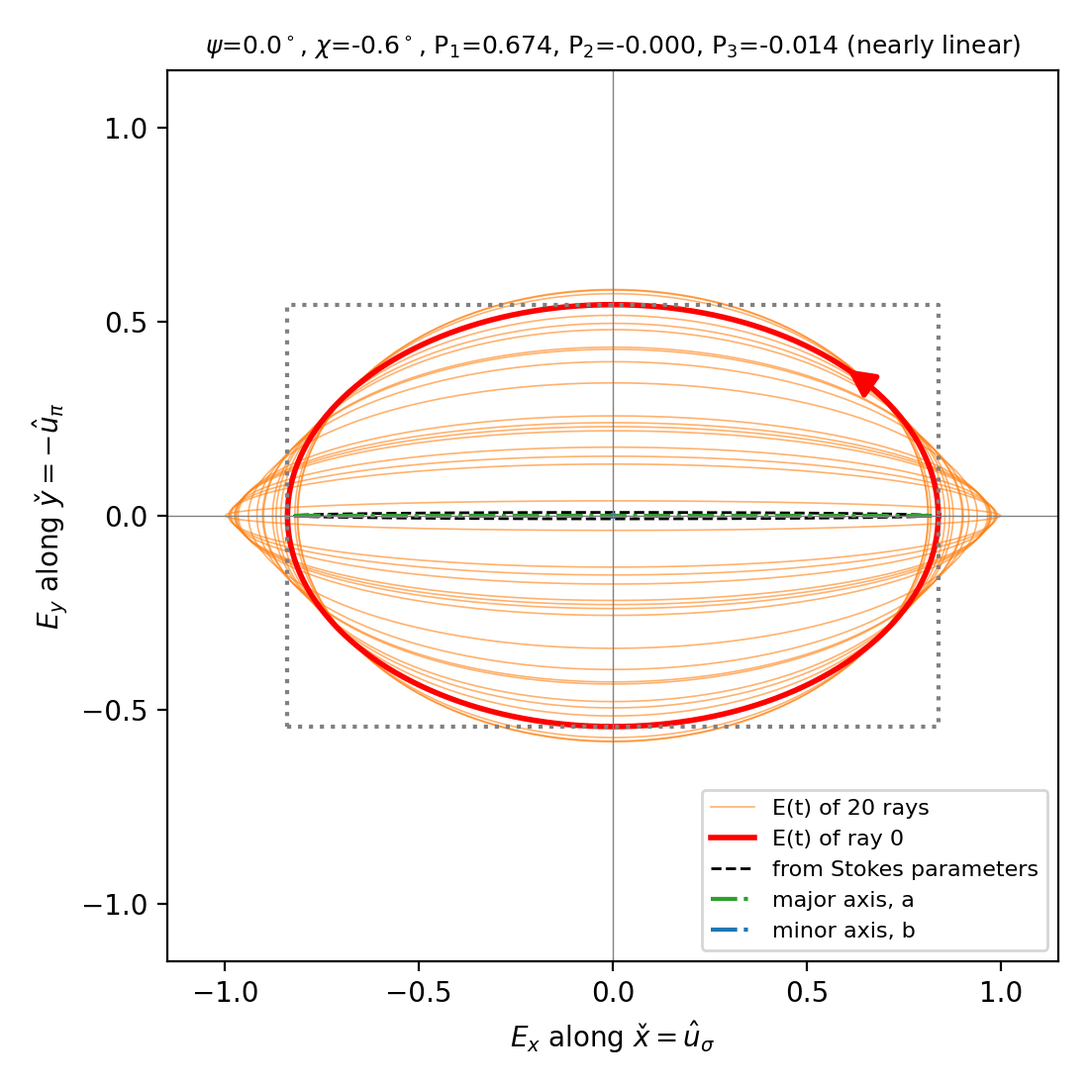
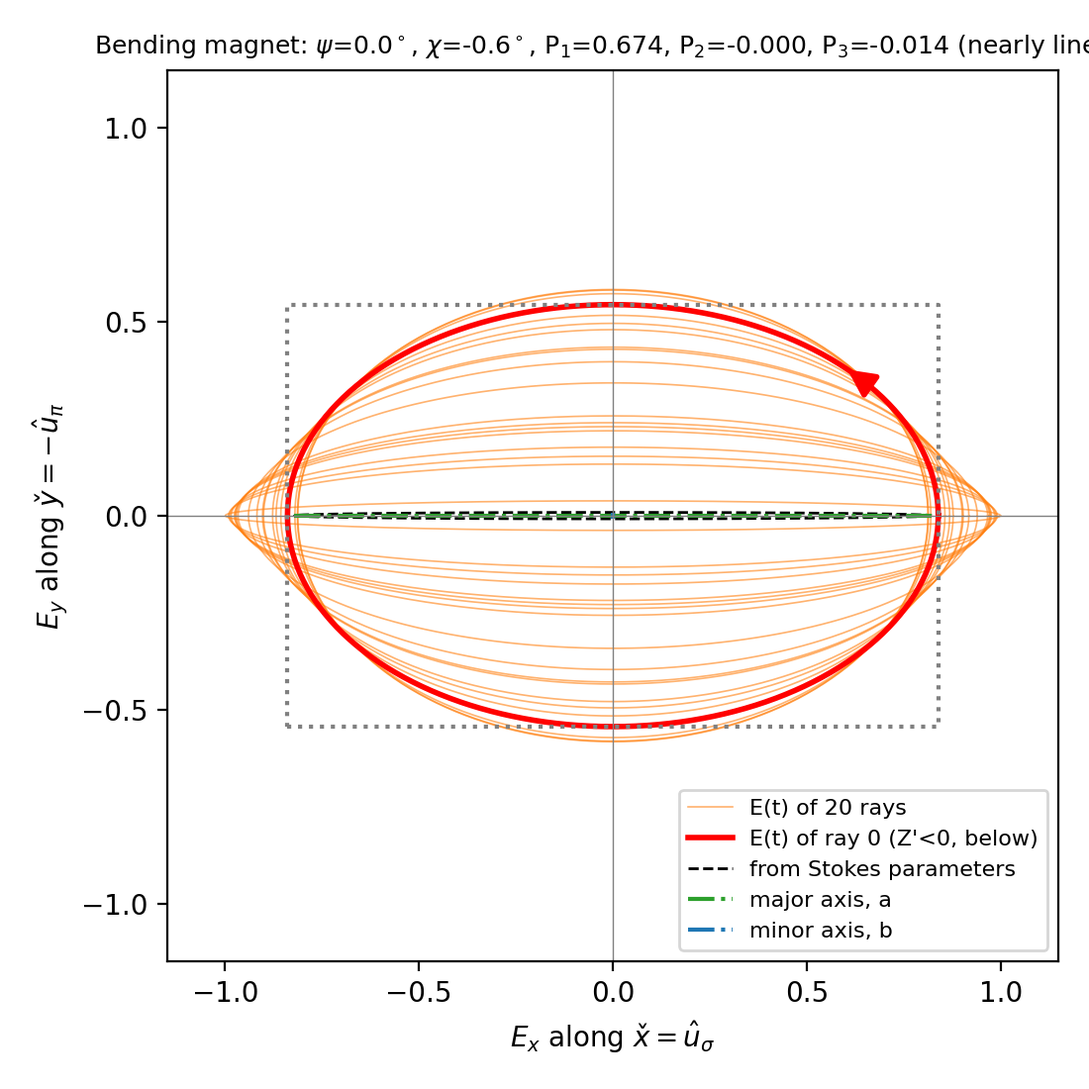
main2: bending magnet Stokes parameters vs Z' (handedness above/below the orbit plane, comparison with the analytical formulas, Schafers 2008 and Lienard-Wiechert), Fig. 3 label and caption, ESRF1 BM from arXiv:2406.16446; scripts: wiggler and undulator examples, shadow4_insertion_devices_stokes.py;

Changed region(s): [[0.68, 0.7109, 0.9582, 0.8655], [0.0927, 0.0309, 1.0, 0.0618], [0.6182, 0.7109, 0.6491, 0.8655]]

diff --git a/scripts/shadow4_insertion_devices_stokes.py b/scripts/shadow4_insertion_devices_stokes.py
@@ -1,0 +1,191 @@
+#
+# Stokes parameters of the rays of synchrotron sources versus the vertical direction Z' (column 6): a bending magnet,
+# a wiggler and an undulator, all without electron beam emittance, so that Z' is the vertical emission angle psi.
+#
+# Bending magnet: ESRF-1 (6.04 GeV, B = -0.8 T, critical energy 19.4 keV) at 8 keV. The SHADOW4 rays are compared with
+# the synchrotron radiation formulas (e.g., Jackson, Classical Electrodynamics, Sec. 14.6; Kim, X-ray Data Booklet,
+# Sec. 2.1):
+#     E_sigma ~ (1 + X^2) K_2/3(xi),    |E_pi| ~ X (1 + X^2)^1/2 K_1/3(xi),    X = gamma psi,
+#     xi = (E / 2 E_c) (1 + X^2)^3/2,  phase difference +/- 90 deg with the sign of psi.
+# The magnetic field B < 0 makes the electrons turn clockwise seen from above (toward +x, see
+# S4BendingMagnetLightSource): the radiation above the orbit plane (psi > 0) is right-handed (S3 < 0) and below it is
+# left-handed (S3 > 0), as in F. Schafers, in Modern Developments in X-Ray and Neutron Optics (Springer, 2008), p. 30.
+# This is verified with the Lienard-Wiechert field of an electron on a circular orbit (handedness_lienard_wiechert).
+#
+# Wiggler: 6.084 GeV, K = 20.49, 6 periods of 15 cm, at 50 keV. At each pole the radiation is like that of a bending
+# magnet: the handedness above (below) the orbit plane depends on the sense of rotation of the electron at the pole
+# (sign of the trajectory curvature d2x/dy2). The rays are separated by the sign of the curvature at their emission
+# point; the two families have opposite handedness, and S3 cancels for the whole beam.
+#
+# Undulator: 6.084 GeV, K = 1.656, 111 periods of 18 mm, at the resonance 8.234 keV, within +/-18 urad. The amplitudes
+# are from the undulator emission, with a phase difference of +/- 90 deg with the sign of psi (as for the bending magnet).
+#
+# The theoretical values are plotted only for the bending magnet.
+#
+# Usage:
+#   PYTHONPATH=~/OASYS2.0/shadow4 ~/venv/oasys2/bin/python shadow4_insertion_devices_stokes.py
+#   (the figures are written to ../figures/stokes_<source>.png, <source> = bending_magnet, wiggler, undulator)
+#
+import os
+import numpy
+import scipy.special
+
+SHOW_PLOTS = 1
+
+PHOTON_ENERGY = 8000.0
+ELECTRON_ENERGY = 6.04       # GeV
+CRITICAL_ENERGY = 0.665 * ELECTRON_ENERGY ** 2 * 0.8 * 1e3   # eV
+
+
+def stokes_analytical(psi, photon_energy=PHOTON_ENERGY, electron_energy=ELECTRON_ENERGY,
+                      critical_energy=CRITICAL_ENERGY):
+    """Normalized Stokes parameters (P1, P2, P3) and angular distribution (arbitrary units) of the bending magnet
+    radiation versus the vertical angle psi (rad), for electrons turning clockwise seen from above."""
+    gamma = electron_energy / 0.51099895e-3
+    X = gamma * psi
+    xi = 0.5 * photon_energy / critical_energy * (1 + X ** 2) ** 1.5
+    a_s = (1 + X ** 2) * scipy.special.kv(2 / 3, xi)
+    a_p = numpy.abs(X) * numpy.sqrt(1 + X ** 2) * scipy.special.kv(1 / 3, xi)
+    S0 = a_s ** 2 + a_p ** 2
+    return (a_s ** 2 - a_p ** 2) / S0, 0 * psi, -numpy.sign(psi) * 2 * a_s * a_p / S0, S0
+
+
+def handedness_lienard_wiechert(psi_gamma=0.5, gamma=30.0, clockwise=True):
+    """Independent check of the handedness: far field of an electron on a circular orbit in the (x, y) plane (Lienard-
+    Wiechert, E ~ n x ((n - beta) x beta_dot) / (1 - n.beta)^3, observer time t = t' - n.r), moving along +y at
+    t' = 0 and turning toward +x (clockwise seen from above) or -x, for an observer at the vertical angle
+    psi = psi_gamma / gamma. Returns the sense of rotation of the field in time, in the standard frame
+    (u_sigma, -u_pi, v), for an observer looking toward the source: +1 counter-clockwise (LCP), -1 clockwise (RCP).
+    Units c = R = 1 (the handedness does not depend on gamma)."""
+    beta = numpy.sqrt(1 - 1 / gamma ** 2)
+    w = beta
+    sx = 1 if clockwise else -1
+    tp = numpy.linspace(-3 / gamma, 3 / gamma, 200001) / w
+    r = numpy.stack([sx * (1 - numpy.cos(w * tp)), numpy.sin(w * tp), 0 * tp], -1)
+    b = beta * numpy.stack([sx * numpy.sin(w * tp), numpy.cos(w * tp), 0 * tp], -1)
+    bd = beta * w * numpy.stack([sx * numpy.cos(w * tp), -numpy.sin(w * tp), 0 * tp], -1)
+    psi = psi_gamma / gamma
+    n = numpy.array([0, numpy.cos(psi), numpy.sin(psi)])
+    E = numpy.cross(n, numpy.cross(n - b, bd)) / ((1 - b @ n) ** 3)[:, None]
+    t = tp - r @ n
+    u_s = numpy.array([1.0, 0, 0])
+    u_p = numpy.cross(u_s, n)                       # SHADOW convention u_pi = u_sigma x v
+    Ex, Ey = E @ u_s, -(E @ u_p)                    # standard frame (u_sigma, -u_pi, v)
+    L = numpy.sum(Ex[:-1] * numpy.diff(Ey) - Ey[:-1] * numpy.diff(Ex))
+    return int(numpy.sign(L))
+
+
+def plot_stokes(zp, S, file_png=None, title="", analytical=None, groups=None, annotate_handedness=False):
+    """Plots (a) the Stokes parameters S (shape (4, nrays)) summed in bins of zp, and (b) the normalized Stokes
+    parameters of the rays, versus zp (rad). analytical: function of psi returning (P1, P2, P3, S0), plotted as lines.
+    groups: list of (mask, label, marker) to plot S3 and P3 separately for families of rays (e.g., wiggler poles)."""
+    import matplotlib
+    if not SHOW_PLOTS: matplotlib.use("Agg")
+    import matplotlib.pyplot as plt
+
+    P = S[1:] / S[0]
+    fig, (ax1, ax2) = plt.subplots(2, 1, figsize=(5.5, 7.0), sharex=True)
+
+    # (a) Stokes parameters summed in bins of Z' (angular distributions)
+    bins = numpy.linspace(zp.min(), zp.max(), 81)
+    centers = 0.5 * (bins[1:] + bins[:-1])
+    hS = [numpy.histogram(zp, bins=bins, weights=S[k])[0] for k in range(4)]
+    norm = hS[0].max()
+    for k, (color, label) in enumerate(zip(['k', 'C0', 'C2', 'C3'], ['$S_0$', '$S_1$', '$S_2$', '$S_3$'])):
+        ax1.plot(1e6 * centers, hS[k] / norm, 'o', ms=5 if k == 0 else 3, color=color, mfc='none' if k == 0 else color,
+                 label=label, zorder=3 if k == 0 else 2)
+    if groups is not None:
+        for mask, label, marker, gcolor in groups:
+            h3 = numpy.histogram(zp[mask], bins=bins, weights=S[3][mask])[0]
+            ax1.plot(1e6 * centers, h3 / norm, marker, ms=3, color=gcolor, label='$S_3$, ' + label)
+    if analytical is not None:
+        psi = numpy.linspace(zp.min(), zp.max(), 501)
+        P1a, P2a, P3a, S0a = analytical(psi)
+        ax1.plot(1e6 * psi, S0a / S0a.max(), '-', color='k', lw=0.8, label='analytical')
+        ax1.plot(1e6 * psi, P1a * S0a / S0a.max(), '-', color='C0', lw=0.8)
+        ax1.plot(1e6 * psi, P3a * S0a / S0a.max(), '-', color='C3', lw=0.8)
+    ax1.axhline(0, color='gray', lw=0.5); ax1.axvline(0, color='gray', lw=0.5)
+    ax1.set_ylabel("Stokes parameters (summed in bins of Z')")
+    ax1.legend(fontsize=7, loc='upper right')
+    ax1.text(0.02, 0.95, '(a)', transform=ax1.transAxes, va='top')
+    ax1.set_title(title, fontsize=10)
+
+    # (b) normalized Stokes parameters of the rays
+    step = max(1, zp.size // 1000)
+    for k, (color, label) in enumerate(zip(['C0', 'C2', 'C3'], ['$P_1$', '$P_2$', '$P_3$'])):
+        if k == 2 and groups is not None:
+            for mask, glabel, marker, gcolor in groups:
+                idx = numpy.argwhere(mask).ravel()[::step]
+                ax2.plot(1e6 * zp[idx], P[k][idx], marker, ms=2, color=gcolor, label=label + ', ' + glabel)
+        else:
+            ax2.plot(1e6 * zp[::step], P[k][::step], '.', ms=2, color=color, label=label + ' (rays)')
+    if analytical is not None:
+        ax2.plot(1e6 * psi, P1a, '-', color='C0', lw=0.8, label='analytical')
+        ax2.plot(1e6 * psi, P3a, '-', color='C3', lw=0.8)
+    ax2.axhline(0, color='gray', lw=0.5); ax2.axvline(0, color='gray', lw=0.5)
+    if annotate_handedness:
+        ax2.text(0.97 * 1e6 * zp.max(), -0.75, 'RCP\n(above)', ha='right', fontsize=8, color='C3')
+        ax2.text(0.97 * 1e6 * zp.min(), 0.65, 'LCP\n(below)', ha='left', fontsize=8, color='C3')
+    ax2.set_xlabel(r"Z' ($\mu$rad)")
+    ax2.set_ylabel(r"$P_k=S_k/S_0$ of the rays")
+    ax2.set_ylim(-1.05, 1.05)
+    ax2.legend(fontsize=7, loc='lower left')
+    ax2.text(0.02, 0.95, '(b)', transform=ax2.transAxes, va='top')
+
+    fig.tight_layout()
+    if file_png is not None:
+        fig.savefig(file_png, dpi=200)
+        print("File written to disk: %s" % file_png)
+    if SHOW_PLOTS: plt.show()
+
+
+def print_stokes(zp, S, groups=None):
+    """Averaged normalized Stokes parameters above and below the orbit plane (and for each group of rays)."""
+    sets = [("all rays", numpy.ones_like(zp, dtype=bool))]
+    if groups is not None: sets += [(label, mask) for mask, label, marker, gcolor in groups]
+    for gname, gmask in sets:
+        for name, mask in [("above (Z'>0)", zp > 0), ("below (Z'<0)", zp < 0), ("all", zp == zp)]:
+            m = gmask & mask
+            print("  %-34s %-13s: %6d rays, <P1> = %+.4f, <P2> = %+.4f, <P3> = %+.4f" %
+                  (gname, name, m.sum(), *(S[1:, m].sum(axis=1) / S[0, m].sum())))
+
+
+if __name__ == "__main__":
+    from shadow4_polarization_ellipse import get_beam_bending_magnet, get_beam_wiggler, get_beam_undulator
+
+    for clockwise in [True, False]:
+        for psi_gamma in [0.5, -0.5]:
+            h = handedness_lienard_wiechert(psi_gamma=psi_gamma, clockwise=clockwise)
+            print("Lienard-Wiechert: electrons %-17s, psi %s 0: %s" % (
+                "clockwise" if clockwise else "counter-clockwise", ">" if psi_gamma > 0 else "<",
+                "LCP (S3>0)" if h > 0 else "RCP (S3<0)"))
+
+    figures_dir = os.path.join(os.path.dirname(os.path.abspath(__file__)), "..", "figures")
+    for SOURCE in ["bending_magnet", "wiggler", "undulator"]:
+        print("\n===== %s =====" % SOURCE)
+        groups, analytical, title = None, None, ""
+        if SOURCE == "bending_magnet":
+            beam = get_beam_bending_magnet(photon_energy=PHOTON_ENERGY, nrays=20000)
+            analytical = stokes_analytical
+            title = "Bending magnet (ESRF1, B=-0.8 T, 8 keV)"
+        elif SOURCE == "wiggler":
+            beam, light_source = get_beam_wiggler(return_light_source=True)
+            # sign of the trajectory curvature (d2x/dy2) at the emission point of each ray
+            traj = light_source._S4WigglerLightSource__result_trajectory
+            curv = numpy.interp(beam.get_column(2, nolost=1), traj[1], traj[6])
+            groups = [(curv > 0, "e- turning to +x", 'v', 'C3'), (curv < 0, "e- turning to -x", '^', 'C4')]
+            title = "Wiggler (K=20.49, 6 periods, 50 keV)"
+        else:
+            beam = get_beam_undulator()
+            title = "Undulator (K=1.656, 111 periods, 8.234 keV)"
+
+        zp = beam.get_column(6, nolost=1)                      # Z' (direction cosine ~ vertical angle)
+        S = numpy.array([beam.get_column(col, nolost=1) for col in [30, 31, 32, 33]])
+        print_stokes(zp, S, groups=groups)
+        if analytical is not None:
+            P = S[1:] / S[0]
+            P1a, P2a, P3a, S0a = analytical(zp)
+            print("  max |P - P_analytical| over the rays: P1 %.2e, P2 %.2e, P3 %.2e" %
+                  (numpy.abs(P[0] - P1a).max(), numpy.abs(P[1] - P2a).max(), numpy.abs(P[2] - P3a).max()))
+        plot_stokes(zp, S, file_png=os.path.join(figures_dir, "stokes_%s.png" % SOURCE), title=title,
+                    analytical=analytical, groups=groups, annotate_handedness=(SOURCE == "bending_magnet"))

diff --git a/scripts/shadow4_polarization_ellipse.py b/scripts/shadow4_polarization_ellipse.py
@@ -14,13 +14,16 @@
 # the rays (flag_return=1) or for one ray (flag_return=2). The curves are obtained with
 # S4Beam.get_polarization_ellipse_curve and plotted with plot_ellipse. The ellipses are checked against the Jones
 # vectors of the rays in shadow4tests (test_library/test_beam_polarization_ellipse.py).
-# A second geometrical source with right circular polarization (chi = -45 deg, i.e. P = 0.5, Phi = 90 deg) is also run.
+# A second geometrical source with right circular polarization (chi = -45 deg, i.e. P = 0.5, Phi = 90 deg) is also run,
+# and the synchrotron sources: ESRF1 bending magnet (8 keV), a wiggler (6.084 GeV, K = 20.49, 6 periods of 15 cm,
+# 50 keV) and an undulator (6.084 GeV, K = 1.656, 111 periods of 18 mm, at resonance 8.234 keV), all without electron
+# beam emittance.
 #
 # Usage:
 #   PYTHONPATH=~/OASYS2.0/shadow4 ~/venv/oasys2/bin/python shadow4_polarization_ellipse.py [psi_deg chi_deg]
-#   (runs the geometrical source with psi_deg, chi_deg [default 30 30], the RCP geometrical source and the bending
-#   magnet source; the figures are written to ../figures/polarization_ellipse_geometrical.png,
-#   ../figures/polarization_ellipse_geometrical_rcp.png and ../figures/polarization_ellipse_bending_magnet.png)
+#   (runs the geometrical source with psi_deg, chi_deg [default 30 30], the RCP geometrical source, and the bending
+#   magnet, wiggler and undulator sources; the figures are written to ../figures/polarization_ellipse_<source>.png,
+#   with <source> = geometrical, geometrical_rcp, bending_magnet, wiggler, undulator)
 #
 import os
 import sys
@@ -44,7 +47,7 @@ def shadow_inputs_from_stokes(S1, S2, S3, S0=1.0):
     return P, Phi
 
 
-def plot_ellipse(ellS, ellJ, iray=0, nsample=20, file_png=None):
+def plot_ellipse(ellS, ellJ, iray=0, nsample=20, file_png=None, ray_label='', title=''):
     """Plots the ellipse of the polarized part of the beam (ellS, flag_return=0) with its axes, and the ellipses of
     the ray iray and of a sample of nsample rays (ellJ, all the rays, flag_return=1)."""
     import matplotlib
@@ -61,7 +64,7 @@ def plot_ellipse(ellS, ellJ, iray=0, nsample=20, file_png=None):
     for j, i in enumerate(sample):
         ax.plot(X[i], Y[i], '-', color='C1', lw=0.6, alpha=0.6,
                 label='E(t) of %d rays' % sample.size if j == 0 else None)
-    ax.plot(E1, E2, '-', color='red', lw=2, label='E(t) of ray %d' % iray)
+    ax.plot(E1, E2, '-', color='red', lw=2, label='E(t) of ray %d%s' % (iray, ray_label))
     ax.plot(*S4Beam.get_polarization_ellipse_curve(ellS), '--', color='k', lw=1, label='from Stokes parameters')
     ax.plot([-a * numpy.cos(psi), a * numpy.cos(psi)], [-a * numpy.sin(psi), a * numpy.sin(psi)],
             '-.', color='C2', label='major axis, a')
@@ -79,7 +82,7 @@ def plot_ellipse(ellS, ellJ, iray=0, nsample=20, file_png=None):
     ax.set_xlabel(r'$E_x$ along $x$' + '\u030c' + r'$=\hat{u}_\sigma$')
     ax.set_ylabel(r'$E_y$ along $y$' + '\u030c' + r'$=-\hat{u}_\pi$')
     P1, P2, P3 = ellS["P"]
-    ax.set_title(r'$\psi$=%.1f$^\circ$, $\chi$=%.1f$^\circ$, P$_1$=%.3f, P$_2$=%.3f, P$_3$=%.3f (%s)' %
+    ax.set_title(title + r'$\psi$=%.1f$^\circ$, $\chi$=%.1f$^\circ$, P$_1$=%.3f, P$_2$=%.3f, P$_3$=%.3f (%s)' %
                  (numpy.degrees(psi), numpy.degrees(chi), P1, P2, P3,
                   'left-handed' if P3 > 0.05 else ('right-handed' if P3 < -0.05 else 'nearly linear')), fontsize=9)
     ax.legend(fontsize=8, loc='lower right')
@@ -126,20 +129,104 @@ def get_beam_bending_magnet(photon_energy=8000.0, nrays=5000):
                                               magnetic_structure=magnetic_structure, nrays=nrays, seed=5676561)
     return light_source.get_beam()
 
+def get_beam_wiggler(return_light_source=False):
+    """Wiggler (6.084 GeV, K = 20.49, 6 periods of 15 cm) at 50 keV, without emittance. With return_light_source=True
+    it returns (beam, light_source), the light source giving access to the electron trajectory."""
+    # electron beam
+    from shadow4.sources.s4_electron_beam import S4ElectronBeam
+    electron_beam = S4ElectronBeam(energy_in_GeV=6.084, energy_spread=0.001, current=0.1)
+    electron_beam.set_sigmas_all(sigma_x=0, sigma_y=0, sigma_xp=0, sigma_yp=0)
+    electron_beam.set_dispersion_all(0, 0, 0, 0)
+
+    # magnetic structure
+    from shadow4.sources.wiggler.s4_wiggler import S4Wiggler
+    source = S4Wiggler(
+        magnetic_field_periodic=1,  # 0=external, 1=periodic
+        file_with_magnetic_field="",  # used only if magnetic_field_periodic=0
+        K_vertical=20.4911,  # syned Wiggler pars: used only if magnetic_field_periodic=1
+        period_length=0.15,  # syned Wiggler pars: used only if magnetic_field_periodic=1
+        number_of_periods=6,  # syned Wiggler pars: used only if magnetic_field_periodic=1
+        emin=50000.0,  # Photon energy scan from energy (in eV)
+        emax=50000.0,  # Photon energy scan to energy (in eV)
+        ng_e=1,  # Photon energy scan number of points for spectrum and internal calculation
+        ng_j=501,  # Number of points in electron trajectory (per period) for internal calculation only
+        psi_interval_number_of_points=101,  # the number psi (vertical angle) points for internal calculation only
+        flag_interpolation=1,  # Use interpolation to sample psi (0=No, 1=Yes)
+        flag_emittance=0,  # Use emittance (0=No, 1=Yes)
+        shift_x_flag=4,  # 0="No shift", 1="Half excursion", 2="Minimum", 3="Maximum", 4="Value at zero", 5="User value"
+        shift_x_value=0.0,  # used only if shift_x_flag=5
+        shift_betax_flag=4,
+        # 0="No shift", 1="Half excursion", 2="Minimum", 3="Maximum", 4="Value at zero", 5="User value"
+        shift_betax_value=0.0,  # used only if shift_betax_flag=5
+    )
+
+    # light source
+    from shadow4.sources.wiggler.s4_wiggler_light_source import S4WigglerLightSource
+    light_source = S4WigglerLightSource(name='Wiggler Light Source', electron_beam=electron_beam,
+                                        magnetic_structure=source, nrays=20000, seed=5676561)
+    beam = light_source.get_beam()
+    return (beam, light_source) if return_light_source else beam
+
+def get_beam_undulator():
+    # electron beam
+    from shadow4.sources.s4_electron_beam import S4ElectronBeam
+    electron_beam = S4ElectronBeam(energy_in_GeV=6.084, energy_spread=0.001, current=0.1)
+    electron_beam.set_sigmas_all(sigma_x=0, sigma_y=0, sigma_xp=0, sigma_yp=0)
+    electron_beam.set_dispersion_all(0, 0, 0, 0)
+
+    # magnetic structure
+    from shadow4.sources.undulator.s4_undulator import S4Undulator
+    source = S4Undulator(
+        K_vertical=1.6563,  # syned Undulator parameter
+        period_length=0.018,  # syned Undulator parameter
+        number_of_periods=111,  # syned Undulator parameter
+        emin=8233.962924699139,  # Photon energy scan from energy (in eV)
+        emax=8233.962924699139,  # Photon energy scan to energy (in eV)
+        ng_e=1,  # Photon energy scan number of points
+        maxangle=1.7970134151911963e-05,  # Maximum radiation semiaperture in RADIANS
+        ng_t=100,  # Number of points in angle theta
+        ng_p=11,  # Number of points in angle phi
+        ng_j=20,  # Number of points in electron trajectory (per period) for internal calculation only
+        code_undul_phot='internal',  # internal, pysru, srw
+        flag_emittance=0,  # when sampling rays: Use emittance (0=No, 1=Yes)
+        flag_size=0,  # when sampling rays: 0=point,1=Gaussian,2=FT(Divergences)
+        distance=100.0,  # distance to far field plane
+        srw_range=0.05,  # for SRW backpropagation, the range factor
+        srw_resolution=50,  # for SRW backpropagation, the resolution factor
+        srw_semianalytical=0,  # for SRW backpropagation, use semianalytical treatement of phase
+        magnification=0.05,  # for internal/wofry backpropagation, the magnification factor
+        flag_backprop_recalculate_source=0,
+        # for internal or pysru/wofry backpropagation: source reused (0) or recalculated (1)
+        flag_backprop_weight=0,  # for internal or pysru/wofry backpropagation: apply Gaussian weight to amplitudes
+        weight_ratio=0.5,  # for flag_backprop_recalculate_source=1, the ratio value sigma/window halfwidth
+        flag_energy_spread=0,  # for monochromatod sources, apply (1) or not (0) electron energy spread correction
+    )
+
+    # light source
+    from shadow4.sources.undulator.s4_undulator_light_source import S4UndulatorLightSource
+    light_source = S4UndulatorLightSource(name='Undulator Light Source', electron_beam=electron_beam,
+                                          magnetic_structure=source, nrays=50000, seed=5676561)
+    return light_source.get_beam()
+
 
 if __name__ == "__main__":
     # both sources; the figures are written to ../figures/polarization_ellipse_<source>.png (used in the paper)
     figures_dir = os.path.join(os.path.dirname(os.path.abspath(__file__)), "..", "figures")
     psi_deg, chi_deg = (30.0, 30.0) if len(sys.argv) < 3 else (float(sys.argv[1]), float(sys.argv[2]))
 
-    for SOURCE in ["geometrical", "geometrical_rcp", "bending_magnet"]:
+    for SOURCE in ["geometrical", "geometrical_rcp", "bending_magnet", "wiggler", "undulator"]:
         print("\n===== %s source =====" % SOURCE)
         if SOURCE == "geometrical":
             beam = get_beam_geometrical(psi_deg, chi_deg)
         elif SOURCE == "geometrical_rcp":
             beam = get_beam_geometrical(0.0, -45.0)                # right circular: P = 0.5, Phi = 90 deg
-        else:
+        elif SOURCE == "bending_magnet":
             beam = get_beam_bending_magnet()
+        elif SOURCE == "wiggler":
+            beam = get_beam_wiggler()
+        elif SOURCE == "undulator":
+            beam = get_beam_undulator()
+
 
         iray = 0
         ellS = beam.get_polarization_ellipse(flag_return=0)               # beam (averaged Stokes parameters)
@@ -154,5 +241,11 @@ if __name__ == "__main__":
               (numpy.degrees(numpy.nanmin(ellJ["chi"])), numpy.degrees(numpy.nanmax(ellJ["chi"])),
                numpy.nanmean(ellJ["dop"])))
 
-        plot_ellipse(ellS, ellJ, iray=iray, nsample=20,
+        ray_label = ''
+        if SOURCE in ["bending_magnet", "wiggler", "undulator"]:                     # position of the ray with respect to the orbit plane
+            zp = beam.get_column(6, nolost=1)[iray]
+            ray_label = " (Z'%s0, %s)" % ((">", "above") if zp > 0 else ("<", "below"))
+            print("ray %d: Z' = %.3e rad%s" % (iray, zp, ray_label))
+        title = {"bending_magnet": "Bending magnet: ", "wiggler": "Wiggler: ", "undulator": "Undulator: "}.get(SOURCE, "")
+        plot_ellipse(ellS, ellJ, iray=iray, nsample=20, ray_label=ray_label, title=title,
                      file_png=os.path.join(figures_dir, "polarization_ellipse_%s.png" % SOURCE))

diff --git a/main2.tex b/main2.tex
@@ -433,16 +433,25 @@ Fig.~\ref{fig:ellipse_geometrical}a shows the right circular polarization create
 \subsection{Polarization of a bending magnet source}\label{sec:source_bm}
 \label{sec:polarization_bm}
 
-In a bending magnet source the polarization of each ray depends on its emission direction. SHADOW samples the ray directions and energies from the synchrotron emission, and sets the amplitudes of the $\sigma$ and $\pi$ components (horizontal and vertical, respectively) from the emission functions of the two polarizations at the vertical angle of the ray. The radiation is linearly polarized in the plane of the orbit, and elliptically polarized out of it, with phase difference $\Phi=\pm 90^\circ$ (the sign changes with the sign of the vertical angle), therefore with opposite handedness above and below the orbit plane.
+In a bending magnet source the polarization of each ray depends on its emission direction. SHADOW samples the ray directions and energies from the synchrotron emission \cite{SanchezdelRio2024bm}, and sets the amplitudes of the $\sigma$ and $\pi$ components (horizontal and vertical, respectively) from the emission functions of the two polarizations at the vertical angle of the ray. The radiation is linearly polarized in the plane of the orbit, and elliptically polarized out of it, with phase difference $\Phi=\pm 90^\circ$ (the sign changes with the sign of the vertical angle), therefore with opposite handedness above and below the orbit plane.
 
-Fig.~\ref{fig:ellipse_bm} shows the polarization ellipses for a bending magnet of the ESRF (electron energy 6.04~GeV, magnetic field 0.8~T, critical energy 19.4~keV) at the photon energy of 8~keV. Every ray is fully polarized, but the ellipses of the rays are different: from nearly linear horizontal polarization (rays close to the orbit plane) to elliptical polarization with a large vertical component and either handedness (rays at larger vertical angles). All ellipses have their axes along $\hat{\epsilon}_{1}$ and $\hat{\epsilon}_{2}$ ($\Phi=\pm90^\circ$).
+Fig.~\ref{fig:ellipse_bm} shows the polarization ellipses for a bending magnet of the old ESRF storage ring (electron energy 6.04~GeV, magnetic field $B=-0.8$~T, radius 25.18~m, critical energy 19.4~keV), the same source used in \cite{SanchezdelRio2024bm}, at the photon energy of 8~keV. Every ray is fully polarized, but the ellipses of the rays are different: from nearly linear horizontal polarization (rays close to the orbit plane) to elliptical polarization with a large vertical component and either handedness (rays at larger vertical angles). All ellipses have their axes along $\check{x}$ and $\check{y}$ ($\Phi=\pm90^\circ$).
 The Stokes parameters of the beam (5000 rays) are $P_1=0.674$, $P_2=0.000$ and $P_3=-0.014$: the contributions of the two handednesses cancel ($P_3\approx 0$ for a beam symmetric with respect to the orbit plane), and the beam is partially polarized, with DOP=0.674, although every ray is fully polarized. The ellipse of the polarized part degenerates to a horizontal line: the polarized part of the beam is linearly polarized in the orbit plane.
 
 \begin{figure}
 \centering
 \includegraphics[width=0.85\linewidth]{figures/polarization_ellipse_bending_magnet.png}
-\caption{Polarization ellipses for an ESRF bending magnet (6.04~GeV, 0.8~T) at 8~keV, seen by an observer looking toward the source: electric field of a sample of 20 rays (thin lines) and of one of them (thick line, the arrow indicates the sense of rotation). The ellipse of the polarized part of the beam, obtained from the summed Stokes parameters (dashed line), degenerates to a horizontal line (DOP=0.674).}
+\caption{Polarization ellipses for an ESRF bending magnet (6.04~GeV, 0.8~T) at 8~keV, seen by an observer looking toward the source: electric field of a sample of 20 rays (thin lines) and of one of them (thick line, the arrow indicates the sense of rotation), emitted below the orbit plane ($Z'=-97~\mu$rad) and therefore left-handed (counter-clockwise). The ellipse of the polarized part of the beam, obtained from the summed Stokes parameters (dashed line), degenerates to a horizontal line (DOP=0.674).}
 \label{fig:ellipse_bm}
+\end{figure}
+
+Fig.~\ref{fig:bm_stokes} shows the Stokes parameters of the rays versus their vertical direction $Z'$ (column 6), for the same source without electron beam emittance, so that $Z'$ is the emission angle $\psi_v$. The normalized Stokes parameters of every ray coincide (to $4\times10^{-6}$) with the expressions of the synchrotron radiation \cite{Jackson1999,xraydatabooklet}, $\mathcal{E}_\sigma\propto(1+X^2)K_{2/3}(\xi)$ and $|\mathcal{E}_\pi|\propto|X|(1+X^2)^{1/2}K_{1/3}(\xi)$, with $X=\gamma\psi_v$, $\xi=(E/2E_c)(1+X^2)^{3/2}$, and a phase difference of $\pm90^\circ$. $P_1$ decreases from 1 in the orbit plane, $P_2=0$, and $|P_3|$ increases with $|Z'|$, reaching $|P_3|\approx1$ in the tails of the angular distribution, where the intensity is small. The sign of $P_3$ changes with the sign of $Z'$. In this example ($B<0$), the electrons are deflected toward $+\hat{x}$, i.e., they turn clockwise seen from above, and the radiation emitted above the orbit plane ($Z'>0$) is right-handed ($S_3<0$), and below it left-handed ($S_3>0$). The averages are $P_3=-0.637$ for the rays above and $+0.638$ for the rays below the orbit plane, while $P_3\approx0$ for the whole beam. This agrees with the literature, where the radiation emitted upward has negative helicity (RCP, $S_3<0$) when the electrons travel clockwise seen from above \cite{Schafers2008}, and with a direct calculation of the Li\'enard--Wiechert field of an electron on the same orbit, which shows that the electric field above the orbit plane rotates clockwise for an observer looking toward the source. For electrons travelling counter-clockwise, the handedness is reversed. A beam with circular polarization of a given handedness can therefore be obtained by selecting with a slit the rays above or below the orbit plane, at the expense of intensity. In SHADOW4 the handedness is set by the sign of the magnetic field, i.e., by the sense of rotation of the electrons.
+
+\begin{figure}
+\centering
+\includegraphics[width=0.85\linewidth]{figures/stokes_bending_magnet.png}
+\caption{Stokes parameters of the rays of an ESRF bending magnet (6.04~GeV, $B=-0.8$~T, electrons turning clockwise seen from above) at 8~keV versus the vertical direction $Z'$ of the rays: (a) Stokes parameters summed in bins of $Z'$ (normalized to the maximum of $S_0$), and (b) normalized Stokes parameters $P_k=S_k/S_0$ of the rays (one in twenty is plotted). The lines are the analytical expressions. The radiation is right-handed ($S_3<0$) above and left-handed ($S_3>0$) below the orbit plane.}
+\label{fig:bm_stokes}
 \end{figure}
 
 % -----------------------------------------------------------------
@@ -1602,6 +1611,7 @@ Script & Example \\
 \hline
 {\tt stokes\_geometrical\_source.py} & Jones vectors and Stokes parameters of the geometrical source (Table~\ref{tab:source_polarization}) \\
 {\tt shadow4\_polarization\_ellipse.py} & Polarization ellipses (Figs.~\ref{fig:ellipse_geometrical} and \ref{fig:ellipse_bm}) \\
+{\tt shadow4\_insertion\_devices\_stokes.py} & Stokes parameters of a bending magnet versus $Z'$ (Fig.~\ref{fig:bm_stokes}) \\
 {\tt shadow4\_visible\_polarizer3.py} & Glass mirror at the Brewster angle (Fig.~\ref{fig:visible}) \\
 {\tt si800\_rs\_rp\_xraylib.py}, {\tt shadow4\_case\_1\_and\_2.py} & Si 800 polarizer and analyzer (section~\ref{sec:polarizers45degBenchmark}) \\
 {\tt shadow4\_practical\_polarizer.py} & Polarimeter of the European XFEL (Fig.~\ref{fig:polarizer}) \\
